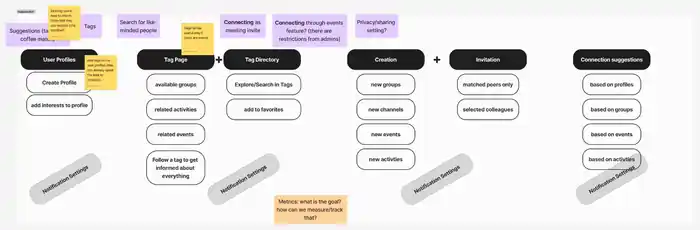
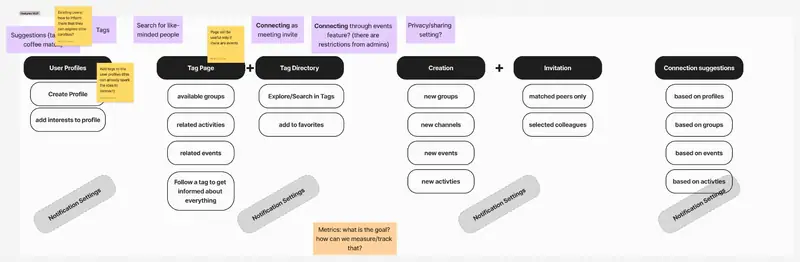
Place supplied Deskbird visuals in relevant case-study sections

diff --git a/src/projects/deskbird-hybrid-work/index.jsx b/src/projects/deskbird-hybrid-work/index.jsx
@@ -2,52 +2,119 @@ import React from 'react';
 import ProjectTemplate from '../../projects/ProjectTemplate';
 import { projectData } from './deskbird-hybrid-work.data';
 import competitorReviewImg from './media/p01_competitor-review.webp';
-import conceptJtbdImg from './media/p08_concept-background-jtbd.webp';
-import conceptFeaturesImg from './media/p08_concept-features-mvp.webp';
+import ideationDirectionsImg from './media/p08_ideation-directions.webp';
+import selectedDirectionImg from './media/p08_selected-interest-based-direction.webp';
+import targetUsersImg from './media/p08_target-users.webp';
+import conceptBackgroundImg from './media/p08_concept-background-jtbd.webp';
+import conceptStoryboardImg from './media/p08_concept-storyboard.webp';
+import conceptMvpImg from './media/p08_concept-features-mvp.webp';
 
-const suppliedMedia = {
-  'p08_concept-background-jtbd.png': conceptJtbdImg,
-  'p08_concept-features-mvp.png': conceptFeaturesImg,
+const mediaClass = 'w-full h-auto block';
+
+const competitorReviewFigure = {
+  type: 'image',
+  src: competitorReviewImg,
+  pendingFile: 'p01_competitor-review.webp',
+  alt: {
+    en: 'Desk-booking competitor review comparing Flexopus, Condeco, Deskly and Pult, with recurring patterns grouped into colleague interaction, desk and area customisation, data-driven workplace enhancement, and space optimisation',
+    de: 'Wettbewerbsanalyse von Deskbuchungsprodukten mit Flexopus, Condeco, Deskly und Pult sowie wiederkehrenden Mustern zu Kolleg:innen-Interaktion, Arbeitsplatz- und Bereichsanpassung, datenbasierter Arbeitsplatzoptimierung und Flächennutzung',
+  },
+  caption: {
+    en: 'A slice of the direct competitor review — colleague-finding and attendance visibility were already common, so presence data itself was not the differentiator',
+    de: 'Ein Ausschnitt der direkten Wettbewerbsanalyse — Kolleg:innen-Suche und Anwesenheitssichtbarkeit waren bereits verbreitet; Anwesenheitsdaten allein waren daher kein Differenzierungsmerkmal',
+  },
+  span: 2,
+  className: mediaClass,
 };
 
-const hydrateFigure = (figure) => {
-  const src = suppliedMedia[figure?.pendingFile];
-  return src ? { ...figure, src } : figure;
+const ideationDirectionsFigure = {
+  type: 'image',
+  src: ideationDirectionsImg,
+  pendingFile: 'p08_ideation-directions.webp',
+  alt: {
+    en: 'Five early concept directions shown side by side: efficient and engaging communication, interest-based events or social networking, personalised and optimised breaks, intelligent notification and alert system, and well-being and productivity',
+    de: 'Fünf frühe Konzeptrichtungen nebeneinander: effiziente und ansprechende Kommunikation, interessenbasierte Events oder Social Networking, personalisierte und optimierte Pausen, intelligentes Benachrichtigungs- und Hinweissystem sowie Wohlbefinden und Produktivität',
+  },
+  caption: {
+    en: 'The five directions after ideation — this is the wider funnel before the team narrowed them to three client-facing concepts',
+    de: 'Die fünf Richtungen nach der Ideation — der breitere Funnel, bevor das Team sie auf drei kundenorientierte Konzepte verdichtete',
+  },
+  span: 2,
+  className: mediaClass,
 };
 
-const enhancedProjectData = {
+const selectedDirectionFigure = {
+  type: 'image',
+  src: selectedDirectionImg,
+  pendingFile: 'p08_selected-interest-based-direction.webp',
+  alt: {
+    en: 'Concept board combining several social-connection ideas and a job statement, converging on Interest-based Events or Social Networking',
+    de: 'Konzeptboard mit mehreren Ideen für soziale Verbindung und einem Job-Statement, das auf interessenbasierte Events oder Social Networking zuläuft',
+  },
+  caption: {
+    en: 'My direction converged on interest-based events and social networking: shared interests as the bridge between office and remote colleagues',
+    de: 'Meine Richtung verdichtete sich zu interessenbasierten Events und Social Networking: geteilte Interessen als Brücke zwischen Büro- und Remote-Kolleg:innen',
+  },
+  span: 1,
+  className: mediaClass,
+};
+
+const targetUsersFigure = {
+  type: 'image',
+  src: targetUsersImg,
+  pendingFile: 'p08_target-users.webp',
+  alt: {
+    en: 'Target users for the concept: anyone at the company, with particular relevance for remote employees seeking connection and hybrid employees who can benefit from online and offline events',
+    de: 'Zielnutzende des Konzepts: grundsätzlich alle im Unternehmen, mit besonderer Relevanz für Remote-Mitarbeitende auf der Suche nach Verbindung und hybride Mitarbeitende, die von Online- und Offline-Events profitieren können',
+  },
+  caption: {
+    en: 'Target users were deliberately broad — the concept had to work for both remote and hybrid employees rather than becoming an office-only social feature',
+    de: 'Die Zielgruppe wurde bewusst breit gefasst — das Konzept sollte für Remote- wie auch hybride Mitarbeitende funktionieren und nicht zu einem reinen Büro-Social-Feature werden',
+  },
+  span: 1,
+  className: mediaClass,
+};
+
+const hydrateConceptArtifact = (figure) => {
+  if (figure.pendingFile === 'p08_concept-background-jtbd.png') {
+    return { ...figure, src: conceptBackgroundImg, pendingFile: 'p08_concept-background-jtbd.webp' };
+  }
+  if (figure.pendingFile === 'p08_concept-storyboard.png') {
+    return { ...figure, src: conceptStoryboardImg, pendingFile: 'p08_concept-storyboard.webp' };
+  }
+  if (figure.pendingFile === 'p08_concept-features-mvp.png') {
+    return { ...figure, src: conceptMvpImg, pendingFile: 'p08_concept-features-mvp.webp' };
+  }
+  return figure;
+};
+
+const enrichedProjectData = {
   ...projectData,
   process: projectData.process.map((step, index) => {
-    const figures = (step.figures ?? []).map(hydrateFigure);
-
-    // The supplied competitor-analysis board belongs with the opening
-    // heuristic/state-of-the-art review. Keep it as evidence in addition to
-    // the more focused exports that can still be added later.
     if (index === 0) {
-      figures.push({
-        type: 'image',
-        src: competitorReviewImg,
-        alt: {
-          en: 'Competitor review of Flexopus, Condeco, Deskly and Pult, comparing colleague-finding, office status and booking, workspace customisation and related workplace features.',
-          de: 'Wettbewerbsanalyse von Flexopus, Condeco, Deskly und Pult mit Vergleich von Kolleg:innen-Suche, Bürostatus und Buchung, Arbeitsplatz-Anpassung und verwandten Workplace-Funktionen.',
-        },
-        caption: {
-          en: 'Direct desk-booking competitors already supported finding colleagues and coordinating office presence; the opportunity was not another finder, but a stronger social layer around shared interests and events.',
-          de: 'Direkte Desk-Booking-Wettbewerber unterstützten bereits das Finden von Kolleg:innen und die Koordination der Büroanwesenheit; die Chance lag daher nicht in einem weiteren Finder, sondern in einer stärkeren sozialen Ebene rund um gemeinsame Interessen und Events.',
-        },
-        span: 2,
-        className: 'w-full h-auto block',
-      });
+      return {
+        ...step,
+        figures: [...(step.figures ?? []), competitorReviewFigure],
+      };
     }
 
-    return { ...step, figures };
+    if (index === 7) {
+      const hydrated = (step.figures ?? []).map(hydrateConceptArtifact);
+      return {
+        ...step,
+        figures: [
+          ...hydrated.slice(0, 1),
+          ideationDirectionsFigure,
+          selectedDirectionFigure,
+          ...hydrated.slice(1, 2),
+          targetUsersFigure,
+          ...hydrated.slice(2),
+        ],
+      };
+    }
+
+    return step;
   }),
-  figures: Object.fromEntries(
-    Object.entries(projectData.figures ?? {}).map(([key, figures]) => [
-      key,
-      figures.map(hydrateFigure),
-    ]),
-  ),
 };
 
 // Dev-only: list every figure still waiting for its file in ./media. The
@@ -58,17 +125,16 @@ const enhancedProjectData = {
 if (import.meta.env.DEV) {
   const missing = [
     ...new Set(
-      enhancedProjectData.process
+      enrichedProjectData.process
         .flatMap((s) => s.figures ?? [])
-        .concat(Object.values(enhancedProjectData.figures ?? {}).flat())
+        .concat(Object.values(enrichedProjectData.figures ?? {}).flat())
         .filter((f) => !f.src)
         .map((f) => f.pendingFile)
-        .filter(Boolean)
     ),
   ];
   if (missing.length) console.warn('[case study] media pending:', missing);
 }
 
 export default function Project2() {
-  return <ProjectTemplate meta={enhancedProjectData} />;
+  return <ProjectTemplate meta={enrichedProjectData} />;
 }
